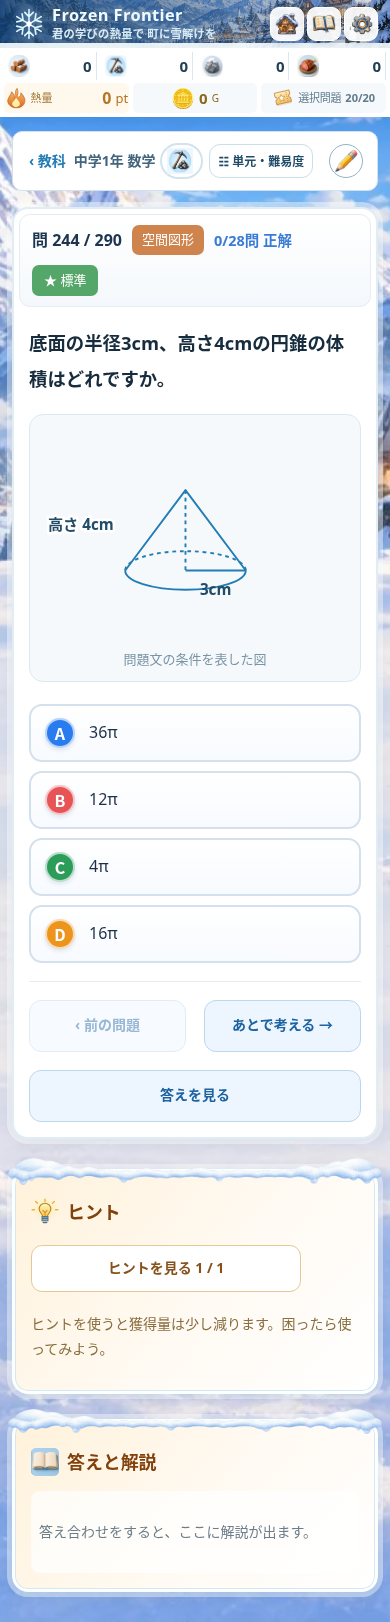
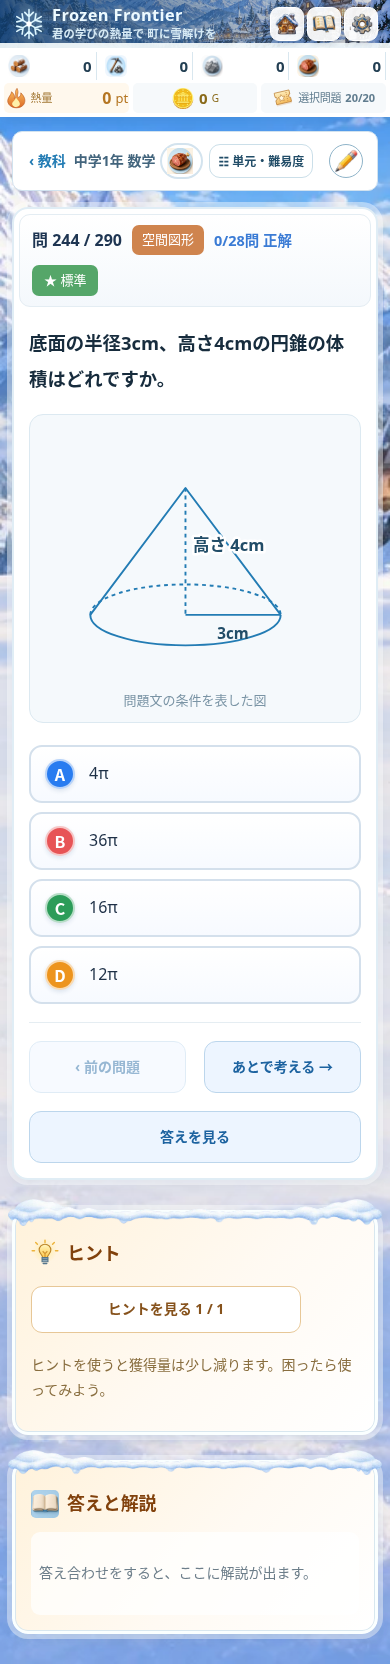
Revise math7 sample labels solids and textbook quantity bars

diff --git a/js/svg/learning.js b/js/svg/learning.js
@@ -48,30 +48,37 @@
     (d.points||[]).forEach(function(p){add(circle(p[0],p[1],4,ink));});
     (d.labels||[]).forEach(function(t){add(text(t[0],t[1],t[2],t[3]||24,t[4]));});
    }else if(d.kind==='quantityBars'){
-    // 各区分は同じ幅。未知量に数値を割り当てない。割合を示す場合だけ parts を明示。
-    h=65+d.rows.reduce(function(n,r){return n+110+(r.notes||[]).length*38;},0);var top=40;
-    d.rows.forEach(function(r){
-     if(r.label)add(text(260,top,r.label,24));top+=20;
-     var parts=r.parts||r.cells.map(function(){return 1;}),total=parts.reduce(function(a,b){return a+b;},0),x=55;
-     r.cells.forEach(function(t,i){var w=410*parts[i]/total;add(box(x,top,w,40,'#fff'));if(t)add(text(x+w/2,top+29,t,23));x+=w;});top+=80;
-     (r.notes||[]).forEach(function(t){add(text(260,top,t,23));top+=38;});top+=10;
-    });
+    // 教科書型の帯と全体のかっこ。幅は模式的、与条件だけをラベルにする。
+    function brace(x,y,w,label){add(path('M'+x+','+(y+10)+' Q'+x+','+y+' '+(x+12)+','+y+' H'+(x+w/2-12)+' Q'+(x+w/2)+','+y+' '+(x+w/2)+','+(y-12)+' Q'+(x+w/2)+','+y+' '+(x+w/2+12)+','+y+' H'+(x+w-12)+' Q'+(x+w)+','+y+' '+(x+w)+','+(y+10)),text(x+w/2,y-25,label,24));}
+    h=d.comparison?340:90+d.rows.length*160;
+    if(d.comparison){
+     var totalX=355;brace(55,65,300,'ノートの総数');
+     add(line(totalX,75,totalX,310,ink,'6 6'));
+     d.rows.forEach(function(r,i){var y=110+i*135,w=i?210:300;add(S('rect',{x:55,y:y,width:w,height:38,fill:'none',stroke:blue,'stroke-width':2}),text(i?160:250,y-14,r.label,25));
+      var from=i?265:355,to=i?355:445;add(S('rect',{x:from,y:y,width:to-from,height:38,fill:'#fff',stroke:blue,'stroke-width':2,'stroke-dasharray':i?null:'6 6'}),text((from+to)/2,y+73,r.notes[0],23));
+     });
+    }else{
+     d.rows.forEach(function(r,j){var y=90+j*160,parts=r.parts||r.cells.map(function(){return 1;}),sum=parts.reduce(function(a,b){return a+b;},0),x=55;
+      brace(55,y-25,410,r.label||'合計');
+      r.cells.forEach(function(t,i){var w=410*parts[i]/sum;add(S('rect',{x:x,y:y,width:w,height:42,fill:'none',stroke:blue,'stroke-width':2}),text(x+w/2,y+29,t,24));x+=w;});
+     });
+    }
    }else if(d.kind==='spatialFigure'){
     // 投影の長さは radius / height / slant に比例。面積指定や未知量は模式図。
-    h=355;var cx=245,baseY=245,r=95,ry=30;
+    h=420;var cx=245,baseY=315,r=150,ry=48;
     if(d.solids){
      d.solids.forEach(function(s,i){var sub=render(s),sv=sub.querySelector('svg');if(sv)add(S('g',{transform:'translate('+(i*260)+',0) scale(.5)'},Array.prototype.slice.call(sv.childNodes)));});
      h=220;
     }else if(d.shape==='sphere'||d.shape==='hemisphere'){
-     if(d.shape==='sphere')add(circle(cx,165,r,'none'));
-     else add(path('M'+(cx-r)+',165 A'+r+','+r+' 0 0 1 '+(cx+r)+',165'));
-     add(S('ellipse',{cx:cx,cy:165,rx:r,ry:ry,fill:'none',stroke:blue,'stroke-width':3,'stroke-dasharray':d.shape==='sphere'?'6 6':null}),line(cx,165,cx+r,165));
-     if(d.radiusLabel)add(text(cx+55,153,d.radiusLabel,24));
+     if(d.shape==='sphere')add(circle(cx,205,r,'none'));
+     else add(path('M'+(cx-r)+',205 A'+r+','+r+' 0 0 1 '+(cx+r)+',205'));
+     add(S('ellipse',{cx:cx,cy:205,rx:r,ry:ry,fill:'none',stroke:blue,'stroke-width':3,'stroke-dasharray':d.shape==='sphere'?'6 6':null}),line(cx,205,cx+r,205));
+     if(d.radiusLabel)add(clearText(cx+65,190,d.radiusLabel,26));
     }else if(d.shape==='cone'){
-     var radius=d.radius||1,ht=d.heightValue|| (d.slant?Math.sqrt(d.slant*d.slant-radius*radius):radius*1.8),sc=Math.min(95/radius,180/ht);r=radius*sc;ry=r*.32;var apex=baseY-ht*sc;
+     var radius=d.radius||1,ht=d.heightValue|| (d.slant?Math.sqrt(d.slant*d.slant-radius*radius):radius*1.8),sc=Math.min(150/radius,230/ht);r=radius*sc;ry=r*.32;var apex=baseY-ht*sc;
      add(path('M'+(cx-r)+','+baseY+' L'+cx+','+apex+' L'+(cx+r)+','+baseY),path('M'+(cx-r)+','+baseY+' A'+r+','+ry+' 0 0 0 '+(cx+r)+','+baseY),path('M'+(cx-r)+','+baseY+' A'+r+','+ry+' 0 0 1 '+(cx+r)+','+baseY,'none',blue,'6 6'));
      if(d.radiusLabel)add(line(cx,baseY,cx+r,baseY),text(cx+r/2,baseY+38,d.radiusLabel,24));
-     if(d.heightLabel)add(line(cx,apex,cx,baseY,blue,'6 6'),clearText(cx-r-18,(apex+baseY)/2,'高さ '+d.heightLabel,24,'end'));
+     if(d.heightLabel)add(line(cx,apex,cx,baseY,blue,'6 6'),clearText(cx+12,(apex+baseY)/2,'高さ '+d.heightLabel,26,'start'));
      if(d.slantLabel)add(text(cx+r/2+22,(apex+baseY)/2,d.slantLabel,24,'start'));
     }else if(d.shape==='prism'||d.shape==='pyramid'){
      var n=d.sides||4,ps=Array.from({length:n},function(_,i){var a=(90+i*360/n)*Math.PI/180;return [cx+105*Math.cos(a),245+40*Math.sin(a)];}),topY=70;
@@ -90,7 +97,7 @@
     var tick=d.tickStep||1;
     for(var x=xr[0];x<=xr[1]+1e-8;x+=tick){add(line(mx(x),my(yr[0]),mx(x),my(yr[1]),'#dcedf6'));if(x!==0)add(text(mx(x),my(0)+26,String(x).replace('-','−'),19));}
     for(var y=yr[0];y<=yr[1]+1e-8;y+=tick){add(line(mx(xr[0]),my(y),mx(xr[1]),my(y),'#dcedf6'));if(y!==0)add(text(mx(0)-13,my(y)+6,String(y).replace('-','−'),19,'end'));}
-    add(line(mx(xr[0]),my(0),mx(xr[1]),my(0)),line(mx(0),my(yr[0]),mx(0),my(yr[1])),text(mx(xr[1])+20,my(0)+8,'x',24),text(mx(0),my(yr[1])-15,'y',24),text(mx(0)-16,my(0)+26,'O',20));
+    add(line(mx(xr[0]),my(0),mx(xr[1]),my(0)),line(mx(0),my(yr[0]),mx(0),my(yr[1])),text(mx(xr[1])+20,my(0)+8,'x',24),text(mx(0),my(yr[1])-15,'y',24),text(mx(0)+12,my(0)+26,'O',20));
     // クリップ外・不連続点で必ず分割。x=0 をまたぐ反比例は独立した線にする。
     (d.curves||[]).forEach(function(c){var ps=[],prev=null;function flush(){if(ps.length>1)add(S('polyline',{points:ps.join(' '),fill:'none',stroke:blue,'stroke-width':3}));ps=[];}
      for(var i=0;i<=800;i++){var x=xr[0]+(xr[1]-xr[0])*i/800,y=c.power===-1?c.a/x:c.a*x+(c.b||0);if(!Number.isFinite(y)||y<yr[0]||y>yr[1]||c.power===-1&&prev!==null&&prev*x<=0)flush();if(Number.isFinite(y)&&y>=yr[0]&&y<=yr[1])ps.push(mx(x)+','+my(y));prev=x;}flush();
@@ -103,13 +110,14 @@
     add(vertical?line(240,70,240,350):line(55,110,465,110));
     for(var v=d.start;v<=d.end+1e-8;v+=d.step){var p=np(v);add(vertical?line(232,p,248,p):line(p,102,p,118));if(!d.labelValues||d.labelValues.indexOf(v)>=0)add(vertical?text(215,p+7,String(v).replace('-','−'),24,'end'):text(p,151,String(v).replace('-','−'),24));}
     (d.marks||[]).forEach(function(v,i){var p=np(v);add(vertical?circle(240,p,4,ink):circle(p,110,4,ink));var t=d.markLabels?d.markLabels[i]:v;if(t!=='')add(vertical?text(270,p+7,t,24,'start'):text(p,76,t,24));});
+    if(vertical&&d.zeroLabel)add(text(270,np(0)+7,d.zeroLabel,24,'start'));
     (d.notes||[]).forEach(function(t,i){add(text(260,(vertical?395:205)+i*36,t,23));h=(vertical?430:240)+i*36;});
    }else if(d.kind==='circle'&&d.math7){
     h=350;var cx=260,cy=175,r=115,angle=d.angle;
     if(angle){var start=-angle/2,end=angle/2,p=point(cx,cy,r,start),q=point(cx,cy,r,end);add(path('M'+cx+','+cy+' L'+p.join(',')+' A'+r+','+r+' 0 '+(angle>180?1:0)+' 0 '+q.join(',')+' Z','none'),text(cx+62,cy+(d.diameter?-18:7),angle+'°',24));}
     else add(circle(cx,cy,r,'none'));
-    if(d.diameter){if(angle)add(S('circle',{cx:cx,cy:cy,r:r,fill:'none',stroke:blue,'stroke-width':2,'stroke-dasharray':'6 6'}));add(line(cx-r,cy,cx+r,cy,blue,'6 6'),text(260,325,'直径 '+d.diameter+d.unit,25));}
-    else{var a=angle?-angle/2:0,p=point(cx,cy,r,a);if(!angle)add(line(cx,cy,p[0],p[1]));add(text(260,325,'半径 '+d.radius+d.unit,25));}
+    if(d.diameter){if(angle)add(S('circle',{cx:cx,cy:cy,r:r,fill:'none',stroke:blue,'stroke-width':2,'stroke-dasharray':'6 6'}));add(line(cx-r,cy,cx+r,cy),clearText(cx,cy+30,'直径'+d.diameter+d.unit,25));}
+    else{var a=angle?-angle/2:0,p=point(cx,cy,r,a);if(!angle)add(line(cx,cy,p[0],p[1]));var label=clearText(cx+(p[0]-cx)*.56,cy+(p[1]-cy)*.56+28,'半径 '+d.radius+d.unit,25);label.setAttribute('transform','rotate('+(-a)+' '+(cx+(p[0]-cx)*.56)+' '+(cy+(p[1]-cy)*.56+28)+')');add(label);}
    }else if(['japanMap' ,'earthScene','terrain','facility','disaster','culture','industry'].indexOf(d.kind)>=0){
     // 社会の共通線画。地名・施設名・答えの語、結果の矢印は表示しない。
     h=400;
@@ -540,8 +548,8 @@
      p.notes.forEach(function(t,i){add(text(cx,280+i*42,t,count===1?25:23));});
     });
    }else if(d.kind==='solid3d'&&d.study){
-    var dims=d.dimensions,w=dims[0],dep=dims[1],ht=dims[2],fullW=w+(d.join?d.join[0]:0),fullH=Math.max(ht,d.join?d.join[2]:0),sc=Math.min((d.block?220:300)/(fullW+.6*dep),170/(fullH+.36*dep)),ox=d.block?65:95,oy=230;
-    h=290+(d.notes||[]).length*42;
+    var dims=d.dimensions,w=dims[0],dep=dims[1],ht=dims[2],fullW=w+(d.join?d.join[0]:0),fullH=Math.max(ht,d.join?d.join[2]:0),sc=Math.min((d.large?410:d.block?220:300)/(fullW+.6*dep),(d.large?260:170)/(fullH+.36*dep)),ox=d.block?65:95,oy=d.large?340:230;
+    h=(d.large?420:290)+(d.notes||[]).length*42;
     if(d.baseView==='front')sc=Math.min(300/(w+.55*ht),170/(dep+.3*ht));
     function xyz(x,y,z){return d.baseView==='front'?[ox+x*sc+z*sc*.55,oy-y*sc-z*sc*.3]:[ox+x*sc+y*sc*.6,oy-z*sc-y*sc*.36];}
     function face3(vs,color,dash){add(path('M'+vs.map(function(v){return xyz(v[0],v[1],v[2]).join(',');}).join(' L')+' Z',color||'none',blue,dash));}
@@ -553,6 +561,7 @@
      edge3([x,0,0],[x,dep,0],'6 6');edge3([x,dep,0],[x+w,dep,0],'6 6');edge3([x,dep,0],[x,dep,ht],'6 6');
     }
     if(d.shape==='cylinder'){
+     if(d.large){sc=Math.min(156/(w/2),260/ht);ox=260-(w/2+dep*.3)*sc;oy=390;h=450;}
      var center=xyz(w/2,dep/2,0),rx=w*sc/2,ry=dep*sc*.18,ty=center[1]-ht*sc;
      add(S('ellipse',{cx:center[0],cy:ty,rx:rx,ry:ry,fill:pale,stroke:blue,'stroke-width':3}),line(center[0]-rx,ty,center[0]-rx,center[1]),line(center[0]+rx,ty,center[0]+rx,center[1]),path('M'+(center[0]-rx)+','+center[1]+' A'+rx+','+ry+' 0 0 0 '+(center[0]+rx)+','+center[1]),path('M'+(center[0]-rx)+','+center[1]+' A'+rx+','+ry+' 0 0 1 '+(center[0]+rx)+','+center[1],'none',blue,'6 6'));
     }else if(d.shape==='prism'){
@@ -581,7 +590,7 @@
      if(d.block){var x=405,y=225,a=32;add(path('M'+x+','+y+' h'+a+' l20,-12 v-'+a+' h-'+a+' l-20,12 Z',pale),path('M'+x+','+(y-a)+' h'+a+' v'+a+' M'+(x+a)+','+(y-a)+' l20,-12'));}
     }
     if(d.shape==='cylinder'&&d.viewDirections){add(line(center[0],32,center[0],ty-10),text(center[0]+20,30,d.viewDirections[0],23,'start'),line(440,center[1]-30,center[0]+rx+10,center[1]-30),text(440,center[1]+5,d.viewDirections[1],23));}
-    if(d.shape==='cylinder'&&d.dimensionLabels){if(d.dimensionLabels.radius)add(line(center[0],ty,center[0]+rx,ty),text(center[0]+rx/2,ty-22,d.dimensionLabels.radius,24));if(d.dimensionLabels.height)add(text(center[0]+rx+18,(ty+center[1])/2,d.dimensionLabels.height,24,'start'));}
+    if(d.shape==='cylinder'&&d.dimensionLabels){if(d.dimensionLabels.radius)add(line(center[0],ty,center[0]+rx,ty),clearText(center[0]+rx/2,ty-12,d.dimensionLabels.radius,26));if(d.dimensionLabels.height)add(text(center[0]+rx+18,(ty+center[1])/2,d.dimensionLabels.height,24,'start'));}
     (d.notes||[]).forEach(function(t,i){add(text(260,282+i*42,t,25));});
    }else if(d.kind==='band'&&d.rows){
     h=d.rows.reduce(function(sum,r){return sum+110+r.labels.filter(Boolean).length*42;},10);var yy=20;

diff --git a/tests/cases/math7-diagram-samples.js b/tests/cases/math7-diagram-samples.js
@@ -6,9 +6,9 @@ module.exports=({test,assert})=>{
  const samples=require('../../docs/math7-diagram-samples/samples.json');
  const {load,LOGIC_FILES_WITH_FIXES}=require('../lib/loader'),c=load(LOGIC_FILES_WITH_FIXES);
  const texts=n=>n.querySelectorAll('text').map(t=>t.textContent),svg=n=>n.querySelectorAll('svg')[0];
- test('中1図：7種類・各2〜3見本、問題本文と登録は未変更',()=>{
+ test('中1図：7種類・線分図4点を含む20見本、問題本文と登録は未変更',()=>{
   const counts={};for(const s of samples){counts[s.diagram.kind]=(counts[s.diagram.kind]||0)+1;const q=c.QUESTION_BANK.find(q=>q.id===s.id);assert.ok(q);assert.ok(!q.diagram);assert.deepEqual(Array.from(c.FF.learning.validateQuestion({...q,diagram:s.diagram})),[],s.id);assert.ok(svg(render(s.diagram)));}
-  assert.equal(Object.keys(counts).length,7);Object.values(counts).forEach(n=>assert.ok(n>=2&&n<=3));
+  assert.equal(Object.keys(counts).length,7);Object.values(counts).forEach(n=>assert.ok(n>=2&&n<=4));
   assert.equal(c.QUESTION_BANK.filter(q=>q.collection==='course_ma7_1'&&q.diagram).length,0);
  });
  test('中1図：反比例は0の前後・範囲外をまたがず等縮尺、点のみも可能',()=>{
@@ -17,12 +17,12 @@ module.exports=({test,assert})=>{
   const point=render(samples.find(s=>s.id.endsWith('proportion_005')).diagram);assert.equal(point.querySelectorAll('polyline').length,0);assert.equal(point.querySelectorAll('circle').length,1);
   const pn=point.querySelectorAll('circle')[0];assert.ok(Math.abs(pn.attrs.cx-(100+2*320/12))<1e-8);assert.equal(pn.attrs.cy,130);
  });
- test('中1図：数直線の分数位置・縦向き・選択ラベルが正確',()=>{
-  const n=render(samples[2].diagram),ps=n.querySelectorAll('circle').map(n=>n.attrs.cx);assert.deepEqual(ps,[157.5,260,362.5]);assert.ok(!texts(n).includes(-.5));
+ test('中1図：分数見本の除外・縦向き・選択ラベルが正確',()=>{
+  assert.ok(!samples.some(s=>s.id.endsWith('signed_numbers_019')));
   const v=render(samples[0].diagram),p=v.querySelectorAll('circle')[0];assert.equal(p.attrs.cx,240);assert.equal(p.attrs.cy,308);assert.ok(!texts(v).includes('-12'));
  });
  test('中1図：直径指定は半径値を表示しない、扇形の端点と角度',()=>{
-  const n=render(samples.find(s=>s.id.endsWith('plane_027')).diagram);assert.ok(texts(n).includes('直径 12cm'));assert.ok(!n.textContent.includes('6cm'));assert.ok(texts(n).includes('150°'));
+  const n=render(samples.find(s=>s.id.endsWith('plane_027')).diagram);assert.ok(texts(n).includes('直径12cm'));assert.ok(!n.textContent.includes('6cm'));assert.ok(texts(n).includes('150°'));
   const d=n.querySelectorAll('path')[0].attrs.d,nums=d.match(/-?\d+(?:\.\d+)?/g).map(Number);assert.ok(d.includes(' A115,115 '));assert.ok(Math.abs(nums[2]-(260+115*Math.cos(75*Math.PI/180)))<1e-8);
  });
  test('中1図：円柱は本文の寸法だけ、円錐母線問題は高さを追加しない',()=>{
@@ -42,12 +42,20 @@ module.exports=({test,assert})=>{
   const bars=render({kind:'quantityBars',rows:[{cells:['',''],parts:[1,4]}]}).querySelectorAll('rect');assert.equal(bars[1].attrs.width/bars[0].attrs.width,4);
   const cyl=render({kind:'solid3d',study:true,shape:'cylinder',dimensions:[6,6,5],vertices:[],viewDirections:['真上','正面']});assert.deepEqual(texts(cyl),['真上','正面']);
  });
- test('中1図：計画は107図・108問、除外4問・歯車共用と一致',()=>{
+ test('中1図：計画は106図・107問、除外4問・歯車共用と一致',()=>{
   const plan=fs.readFileSync(path.join(root,'PICTURE_PLAN_MATH7.md'),'utf8'),rows=plan.split('\n').filter(l=>l.startsWith('|M7-'));
-  assert.equal(rows.length,107);const ids=rows.flatMap(l=>[...l.matchAll(/`(math_g7_\w+)`/g)].map(m=>m[1]));assert.equal(ids.length,108);assert.equal(new Set(ids).size,108);
+  assert.equal(rows.length,106);const ids=rows.flatMap(l=>[...l.matchAll(/`(math_g7_\w+)`/g)].map(m=>m[1]));assert.equal(ids.length,107);assert.equal(new Set(ids).size,107);
   for(const id of ids)assert.ok(c.QUESTION_BANK.some(q=>q.id===id),id);
   for(const id of ['expression_006','expression_016','data_006','data_014'])assert.ok(!ids.includes('math_g7_'+id));
-  assert.equal(rows.filter(l=>l.includes('生成した絵')).length,2);assert.equal(rows.filter(l=>l.includes('SVG・')).length,105);
+  assert.equal(rows.filter(l=>l.includes('生成した絵')).length,2);assert.equal(rows.filter(l=>l.includes('SVG・')).length,104);
+ });
+ test('中1図：修正した寸法ラベル・全体のかっこ・過不足の整列',()=>{
+  const by=id=>samples.find(s=>s.id.endsWith(id)).diagram;
+  assert.equal(samples.length,20);assert.equal(samples.filter(s=>s.diagram.kind==='quantityBars').length,4);
+  const sea=render(by('signed_numbers_001')).querySelectorAll('text').find(t=>t.textContent==='海面');assert.equal(sea.attrs.y,147);
+  const n=render(by('equation_025')),rects=n.querySelectorAll('rect');assert.equal(rects.length,4);assert.equal(rects[1].attrs.x,355);assert.equal(rects[3].attrs.x+rects[3].attrs.width,355);assert.equal(rects[1].attrs['stroke-dasharray'],'6 6');assert.ok(n.querySelectorAll('line').some(l=>l.attrs.x1===355&&l.attrs.x2===355));assert.ok(!n.textContent.includes('…'));
+  const sum=render(by('expression_009'));assert.deepEqual(texts(sum),['合計','b円','b円','10円']);const rs=sum.querySelectorAll('rect');assert.ok(rs[2].attrs.width<rs[0].attrs.width);assert.ok(sum.querySelectorAll('path').length);
+  for(const id of ['space_010','space_014']){const d=render(by(id));assert.ok(d.querySelectorAll('ellipse')[0].attrs.rx*2>=300);}
  });
  test('中1図：既存全図のSVG・表・画像構造は拡張前と同一',()=>{
   const qs=c.QUESTION_BANK.filter(q=>q.diagram),baseline=require('../fixtures/math7-diagram-baseline.json');

diff --git a/PICTURE_PLAN_MATH7.md b/PICTURE_PLAN_MATH7.md
@@ -2,7 +2,7 @@
 
 対象は `questions/math_g7_course.js` の `course_ma7_1` 全280問。既存見本10問は対象外。第4・第5回報告の候補を出発点に、全280問の本文を確認して選んだ。
 
-**107図・108問／280問（38.6%）**。SVG 105図、生成した絵2枚。歯車1枚をproportion_019・029で共用するため、制作物数と対象問題数は異なる。管理番号は旧計画から維持し、欠番を詰めない。第1回は描画の種類・見本だけを作り、問題への登録と生成絵の制作は行わない。
+**106図・107問／280問（38.2%）**。SVG 104図、生成した絵2枚。歯車1枚をproportion_019・029で共用するため、制作物数と対象問題数は異なる。管理番号は旧計画から維持し、欠番を詰めない。第1回は描画の種類・見本だけを作り、問題への登録と生成絵の制作は行わない。
 
 ## 共通の制約
 
@@ -20,7 +20,7 @@
 
 |単元|SVG|絵|図の数|図の付く問題|割合|
 |---|---:|---:|---:|---:|---:|
-|正負の数（signed_numbers）|13|0|13|13/28|46.4%|
+|正負の数（signed_numbers）|12|0|12|12/28|42.9%|
 |正負の数の計算（signed_calc）|4|0|4|4/28|14.3%|
 |文字と式（expression）|12|0|12|12/28|42.9%|
 |文字式の計算（expression_calc）|2|0|2|2/28|7.1%|
@@ -30,7 +30,7 @@
 |平面図形（plane）|21|0|21|21/28|75.0%|
 |空間図形（space）|21|0|21|21/28|75.0%|
 |資料の活用（data）|7|0|7|7/28|25.0%|
-|合計|105|2|107|108/280|38.6%|
+|合計|104|2|106|107/280|38.2%|
 
 ## 制作方法と種類の整理
 
@@ -66,7 +66,6 @@ histogramは新設しない。data_006・014の空枠は見送る。座標・数
 |M7-007 絶対値の条件|`math_g7_signed_numbers_011`|原点と本文の4を距離の条件として示す|−4の追加ラベル、該当整数の点や個数|SVG・numberline（math7・ラベル選択）|
 |M7-008 二地点間の距離|`math_g7_signed_numbers_012`|−5と＋2の点を同じ数直線に置く|距離7、計算用の分割線|SVG・numberline（math7・ラベル選択）|
 |M7-009 負の二地点の中間|`math_g7_signed_numbers_013`|−8と−2だけを表示|中点、−5、二等分の印|SVG・numberline（math7・ラベル選択）|
-|M7-010 負の分数の位置|`math_g7_signed_numbers_019`|−1/2、−3/4、−1/4の点を均一な縮尺で表示|中央値の印、順番の番号|SVG・numberline（math7・ラベル選択）|
 |M7-011 基準より上と下の地点|`math_g7_signed_numbers_020`|本文のA・B、上6m・下4mと基準を示す|二地点の差10m、加算式|SVG・numberline（math7・縦向き）|
 |M7-012 負の小数の誤りを考える線|`math_g7_signed_numbers_024`|−0.4と−0.7を同じ線に置く|正しい不等号、正答側の強調|SVG・numberline（math7・ラベル選択）|
 |M7-013 絶対値の条件と負の側|`math_g7_signed_numbers_027`|原点と本文の2・7の距離条件を示す。負の側に数値を転載しない|−3〜−6の点、該当範囲の色ぬり、個数|SVG・numberline（math7・ラベル選択）|
@@ -222,11 +221,11 @@ histogramは新設しない。data_006・014の空枠は見送る。座標・数
 - data_002・011・013・023・024、signed_numbers_025：単純な文や二つの値を枠に置くだけの候補は外した。data_026は分布の実データがなく、仮の分布を足せないため見送る。
 - expression_029は人数の組合せが答え。特定の人数の絵を描くと正答を示すため見送る。通常の買い物場面だけの生成絵も、立式の助けにならないため追加しない。
 
-上の省略IDにもすべて `math_g7_` が付く。採用していない172問は図なしを維持する。目安の割合を増やすための飾りは足さない。
+上の省略IDにもすべて `math_g7_` が付く。採用していない173問は図なしを維持する。目安の割合を増やすための飾りは足さない。
 
 ## 進め方（第1回と以降）
 
-第1回は「図の種類の準備と見本」だけ。問題のdiagramは変更しない。各種類2〜3個を実際の問題条件で描き、390pxの問題画面を `docs/math7-diagram-samples/` に保存する。対象ID・問題文・答え・設定は同ディレクトリのSAMPLES.mdとsamples.jsonで照合する。文字の見切れ・重なり、寸法・角度・座標、解答非表示、スマホ可読性を確認する。
+第1回は「図の種類の準備と見本」だけ。問題のdiagramは変更しない。線分図4個、その他の各種類2〜3個を実際の問題条件で描き、390pxの問題画面を `docs/math7-diagram-samples/` に保存する。対象ID・問題文・答え・設定は同ディレクトリのSAMPLES.mdとsamples.jsonで照合する。文字の見切れ・重なり、寸法・角度・座標、解答非表示、スマホ可読性を確認する。
 
 次回以降は正負の数＋計算、文字と式＋計算、方程式＋計算、比例と反比例＋平面図形、空間図形＋資料の活用の順に2単元ずつ登録・記録・レビューする。
 
@@ -239,3 +238,5 @@ histogramは新設しない。data_006・014の空枠は見送る。座標・数
 ## 第1回の確認記録
 
 種類別見本・検査手順と結果は `docs/math7-diagram-samples/SAMPLES.md` を参照。問題ファイルへの登録は行わない。
+
+- signed_numbers_019：3つの分数を数直線上に並べると中央値の答えを示すため除外し、図なしとする（判断539）。線分図の見本はexpression_009・021、equation_025・019の4点。

diff --git a/DECISIONS.md b/DECISIONS.md
@@ -2491,6 +2491,13 @@
 - coordinate、numberline、circleは明示的なmath7設定、solid3d円柱はdimensionLabels・viewDirectionsを拡張。既存の必須設定と描画は維持。新設はmathGeometry・quantityBars・spatialFigureの3種類に削減し、理由を計画に記載。
 - 問題には未登録。7種類各2〜3点、計20点を実際の条件で描画し、390px幅の問題画面で撮影。docs/math7-diagram-samples/SAMPLES.mdに対象ID・本文・答え・画像の一覧、samples.jsonに設定、inspection.jsonに文字の検査結果を保存。全20点を目視確認し、座標ラベル・角度と直径線・高さラベルの配置を調整。
 - 回帰検査で既存997問の描画構造を変更前95fb9bfと照合。新設定の座標・数直線・扇形・寸法・作図途中・未知量の模式表示、計画の集計と除外を検査。node tests/run.jsは935件成功・失敗0、390px見本20点の横はみ出し・文字見切れなし。git diff --check成功。codex/math7-questionsへcommit・pushして停止。
+## 539. 中1数学：第1回の見本を修正、問題への登録は保留（Codex）
+- 作業前にorigin/main（7eaeb09、負の分数の符号表示＝判断540）を取り込み。DECISIONS.mdの競合は双方の追記を保持し、537・538・539・540の番号順に整理。
+- signed_numbers_019は数直線で分数の順序と中央値の答えを見せるため計画・見本から除外。SVG104図・絵2枚の106図、107問／280問（38.2%）。問題データは変更なし。
+- 海面を0の横、おうぎ形の半径ラベルを半径線に沿う位置、直径ラベルを端から端への直径線沿いに配置。円柱の上面に半径線とラベル、円錐の高さを点線の横、半球の数値を曲線から離して配置。原点Oを目盛りから離した。円柱・円錐・半球を枠幅の約6割に拡大。新設定のみに適用し、既存997問の描画構造は保持。
+- quantityBarsを全体のかっこ付きの帯に修正。expression_009・021、equation_025・019の4見本。過不足は共通の総数を縦の点線でそろえ、不足だけ点線で延長。未知量の幅は模式図であり解を反映しない。
+- 390pxの実画面20点を撮り直し、03を削除・21を追加。SAMPLES.mdと設定・検査記録を更新。全体の目視と文字見切れ・横はみ出し検査を実施。新しい配置・過不足の整列と既存図の回帰検査を含むnode tests/run.jsは936件成功・失敗0。git diff --check成功。codex/math7-questionsへcommit・pushして停止。
+
 ## 540. 負の分数の符号は、分数の前に出す
 - 利用者の指摘：「−1/2」を教科書式の分数にすると、「−1」が分子になっていた。教科書では「−」を分数全体の前に書く。
 - `js/ui/homepage-design.js` の分数の表示で、分子か分母の一方だけに符号があるときは、「−」を分数の前（`.g6-fraction-sign`）に出し、分子・分母は数字だけにする。両方が負なら符号を消す。「5−1/2」の引き算の「−」、「(−3)/4」のかっこの中は変えない。符号は文字「−」ではなく、分子の下線（分数の横線）を基準にした線で描く（`.g6-fraction.is-negative` の分子の `::before`）。文字の「−」はフォントで高さが変わり、スマホで少し高く出たため（利用者の指摘）。線の太さ・長さは本文の「−」に近い 0.12em・0.68em。読み上げは「マイナス2分の1」。問題データ・採点は変えない。

diff --git a/docs/math7-diagram-samples/SAMPLES.md b/docs/math7-diagram-samples/SAMPLES.md
@@ -8,7 +8,6 @@
 |---|---|---|---|---|
 |numberline|math_g7_signed_numbers_001|海面を基準に、上を正とします。海面より12m下の位置を符号付きの数で表しなさい。単位は不要です。|−12|[見本](01-math_g7_signed_numbers_001.png)|
 |numberline|math_g7_signed_numbers_012|数直線上の−5と＋2の間の距離を答えなさい。|7|[見本](02-math_g7_signed_numbers_012.png)|
-|numberline|math_g7_signed_numbers_019|−1/2、−3/4、−1/4を小さい順に並べたとき、中央の数を分数で答えなさい。|−1/2|[見本](03-math_g7_signed_numbers_019.png)|
 |coordinate|math_g7_proportion_005|点Aの座標は（−4，3）です。x座標を答えなさい。|-4|[見本](04-math_g7_proportion_005.png)|
 |coordinate|math_g7_proportion_024|y＝−12/xで、−6≦x≦−2のときのyの変域はどれですか。|2≦y≦6|[見本](05-math_g7_proportion_024.png)|
 |coordinate|math_g7_proportion_026|比例と反比例のグラフがともに点（2，6）を通ります。x＝4のときのyについて正しいものはどれですか。|比例は12、反比例は3|[見本](06-math_g7_proportion_026.png)|
@@ -26,5 +25,8 @@
 |spatialFigure|math_g7_space_011|底面の半径3cm、高さ4cmの円{錐\|すい}の体積はどれですか。|12π|[見本](18-math_g7_space_011.png)|
 |spatialFigure|math_g7_space_016|底面の半径3cm、母線5cmの円{錐\|すい}の表面積を、πを使い単位なしで答えなさい。|24π|[見本](19-math_g7_space_016.png)|
 |spatialFigure|math_g7_space_028|半径3cmの半球を切り口の円も含めて囲む表面積を、πを使い単位なしで答えなさい。|27π|[見本](20-math_g7_space_028.png)|
+|quantityBars|math_g7_equation_019|生徒に鉛筆を1人3本ずつ配ると5本余ります。生徒x人、鉛筆41本のときの方程式はどれですか。|3x＋5＝41|[見本](21-math_g7_equation_019.png)|
+
+判断539：03（signed_numbers_019）は答えの順序を示すため削除。既存の見本番号を維持し、21（equation_019）を追加した。線分図は15・16・17・21の4点。計画は106図・107問。origin/mainの判断540を取り込んで撮影。
 
 確認：ページの横はみ出し・SVG文字の見切れなし。全見本を目視し、文字の重なりと可読性を確認。寸法・座標・角度と答えの点を描かない条件は tests/cases/math7-diagram-samples.js でも検証する。通常の目盛りは共通制約の例外として表示する。文字量は模式図、錐の母線だけが既知の問題では高さの数値を表示しない。
